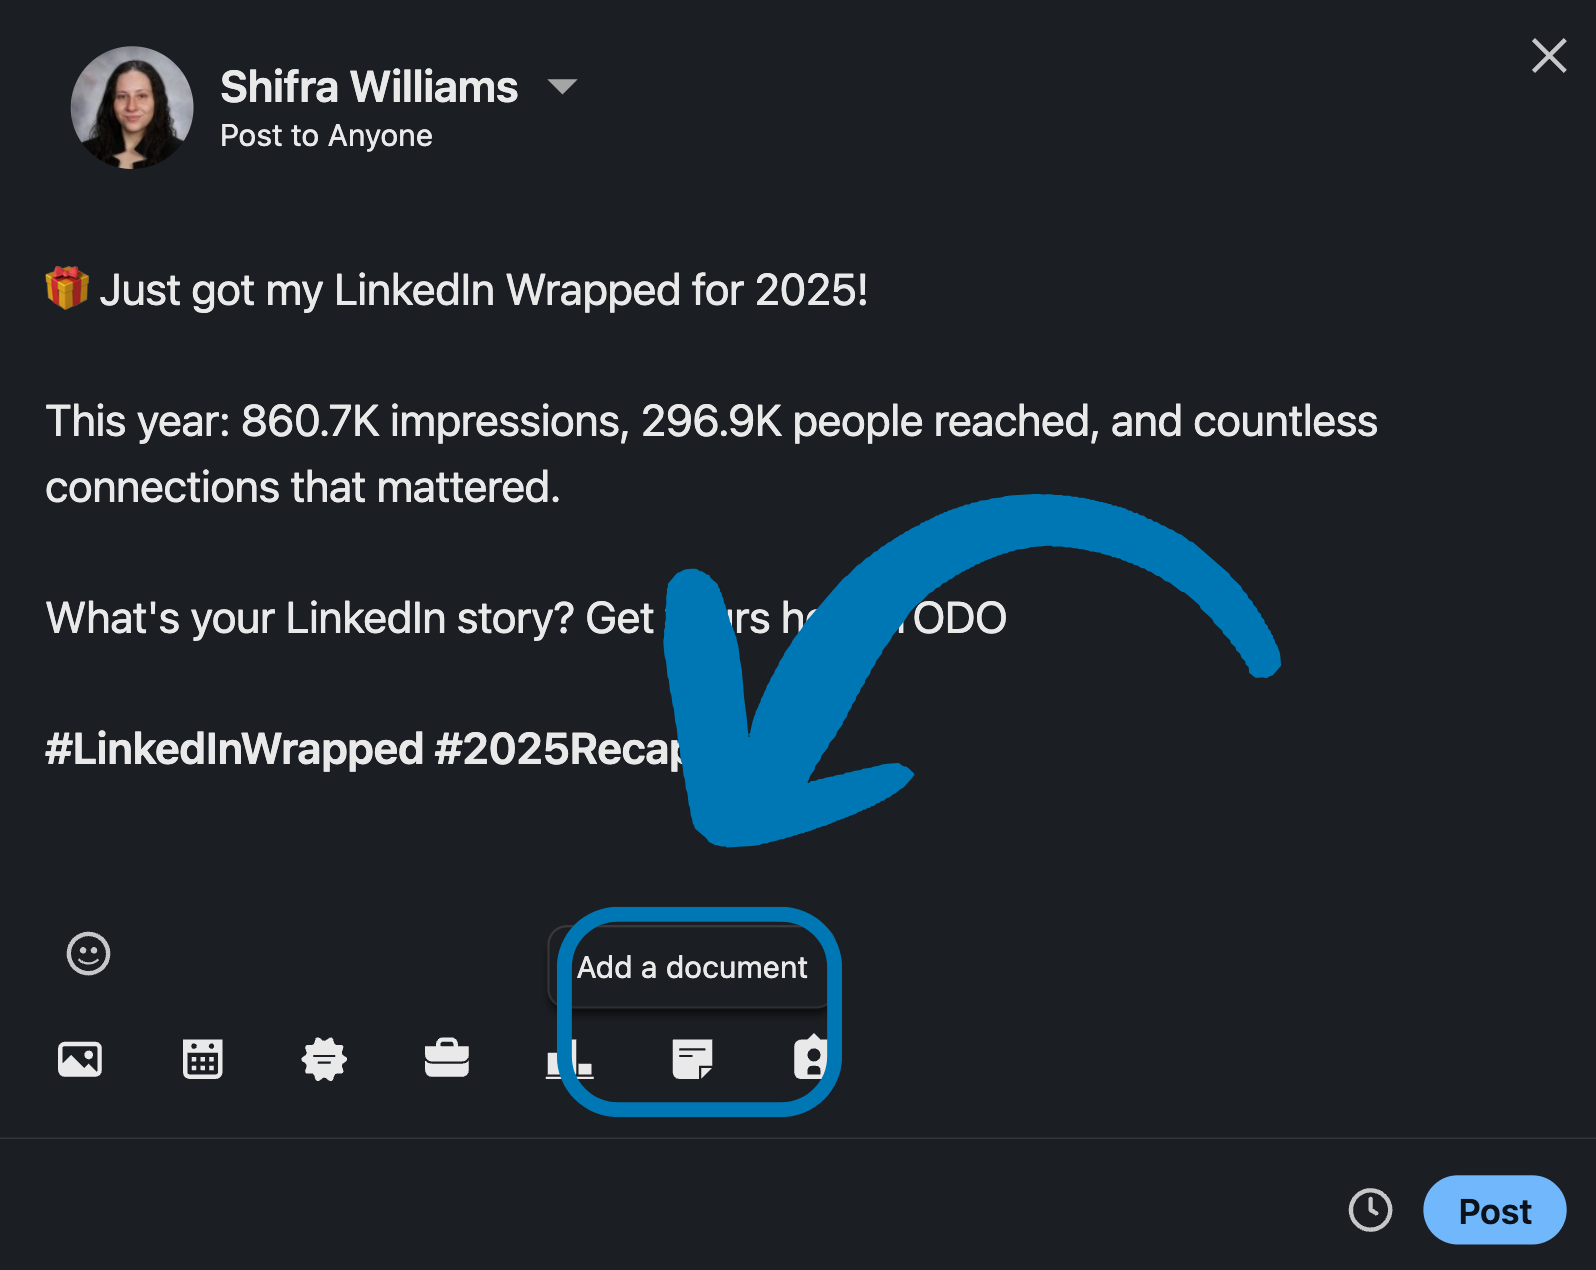
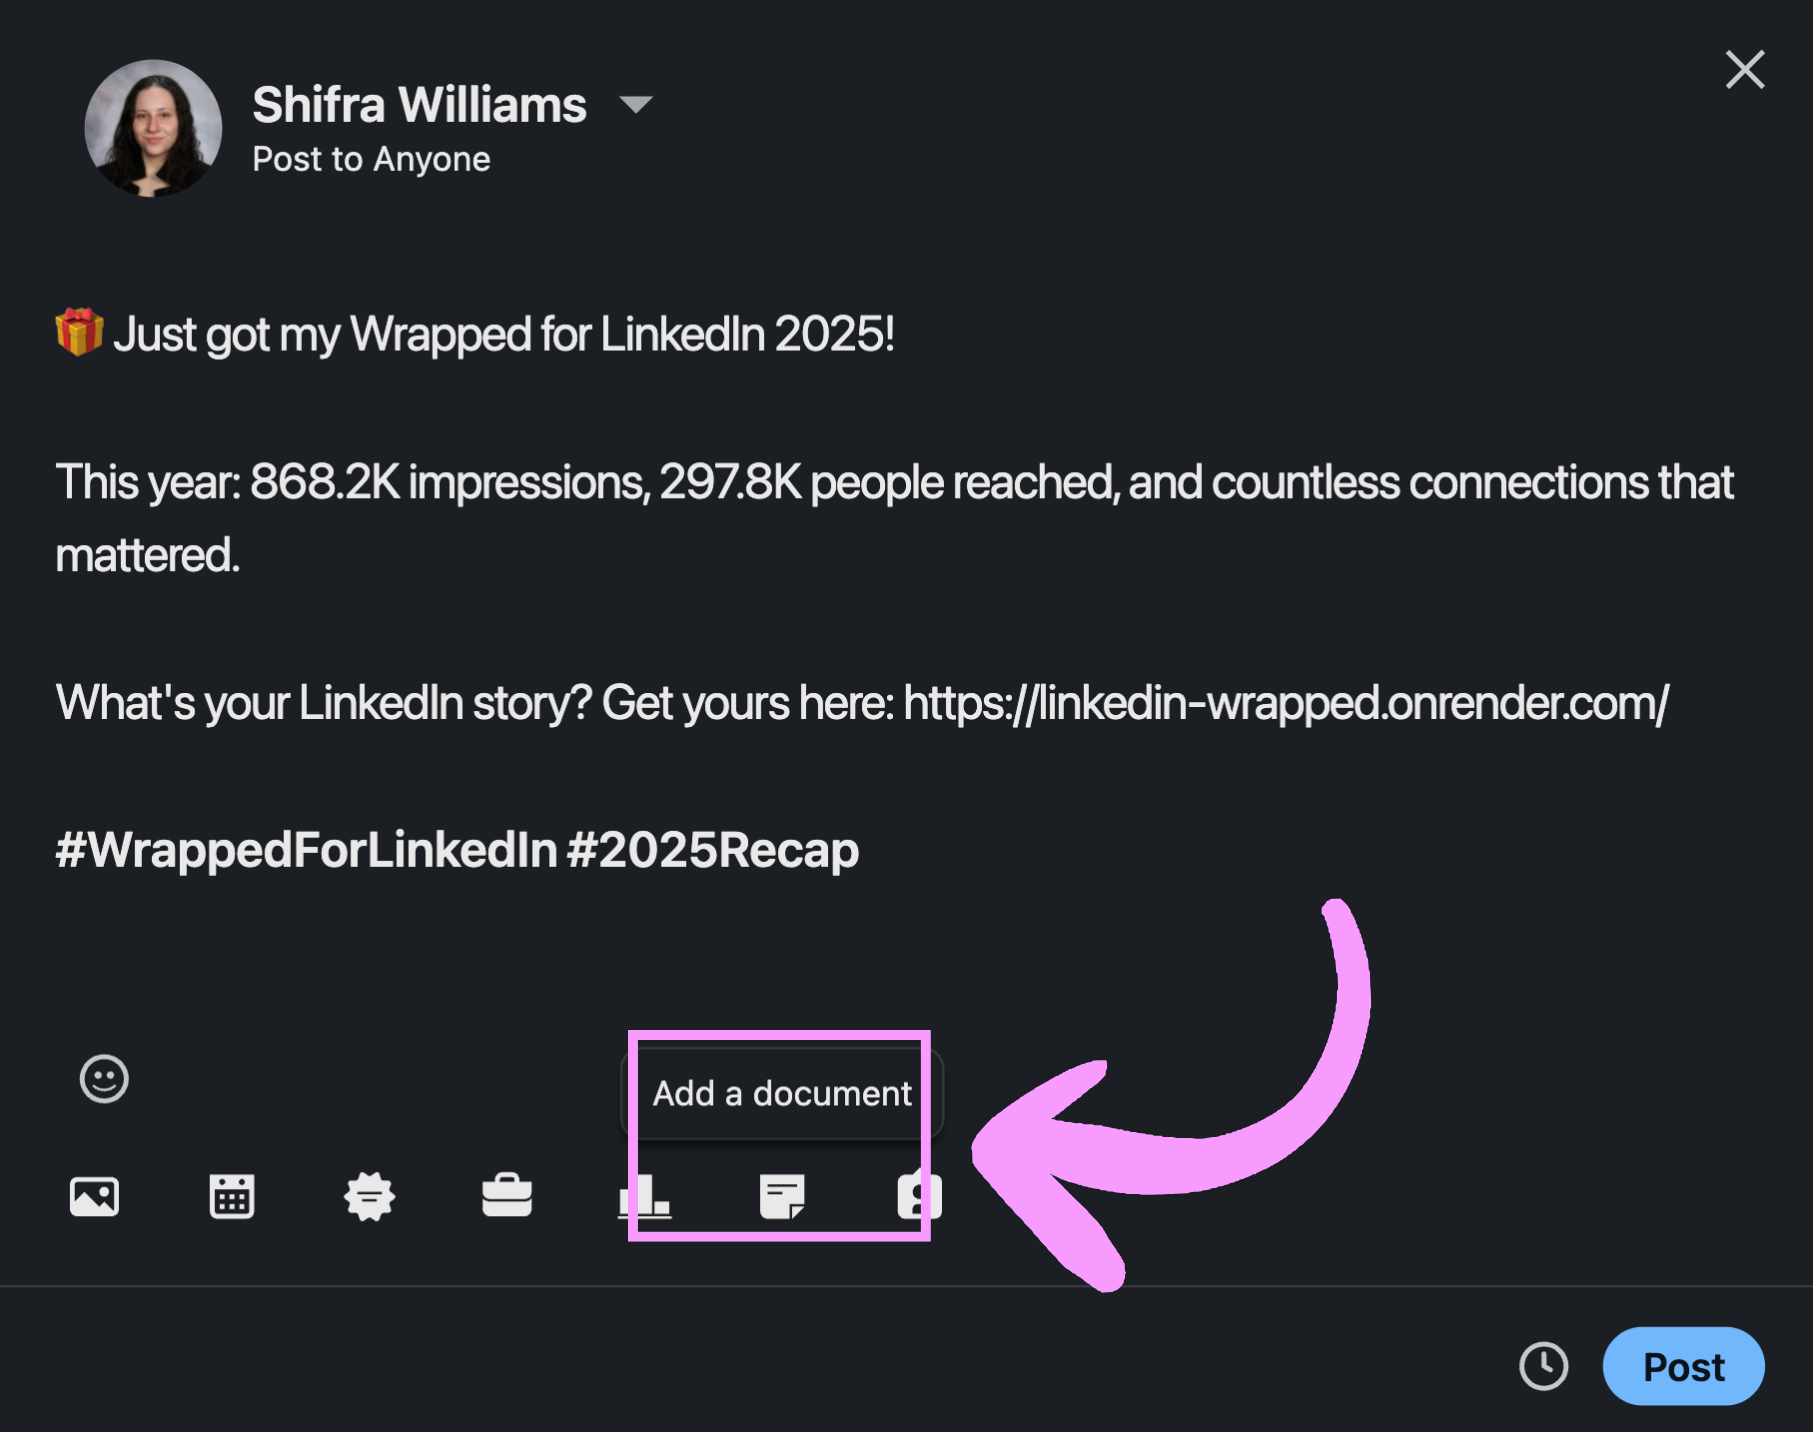
feat: update share images

diff --git a/site/src/components/WrappedStories/DownloadInstructions.tsx b/site/src/components/WrappedStories/DownloadInstructions.tsx
@@ -64,6 +64,8 @@ export const DownloadInstructions: React.FC<DownloadInstructionsProps> = ({
 
           <div className="instructions-steps">
             <p className="instruction-step">1. <b>Open LinkedIn.</b> Click the button below to open LinkedIn with a prepared post.</p>
+            <p className="instruction-step"><strong>Note:</strong> Close the link preview by clicking <strong>X</strong> before attaching media.</p>
+            <img src="/images/share/close-embed.png" alt="Close the link embed" className="instruction-image" />
             {exportType === 'current-card' ? (
               <>
                 <p className="instruction-step">2. <b>Attach your card.</b> Click the image icon in the bottom left of the post modal. Select your Wrapped for LinkedIn card image (PNG file).</p>
